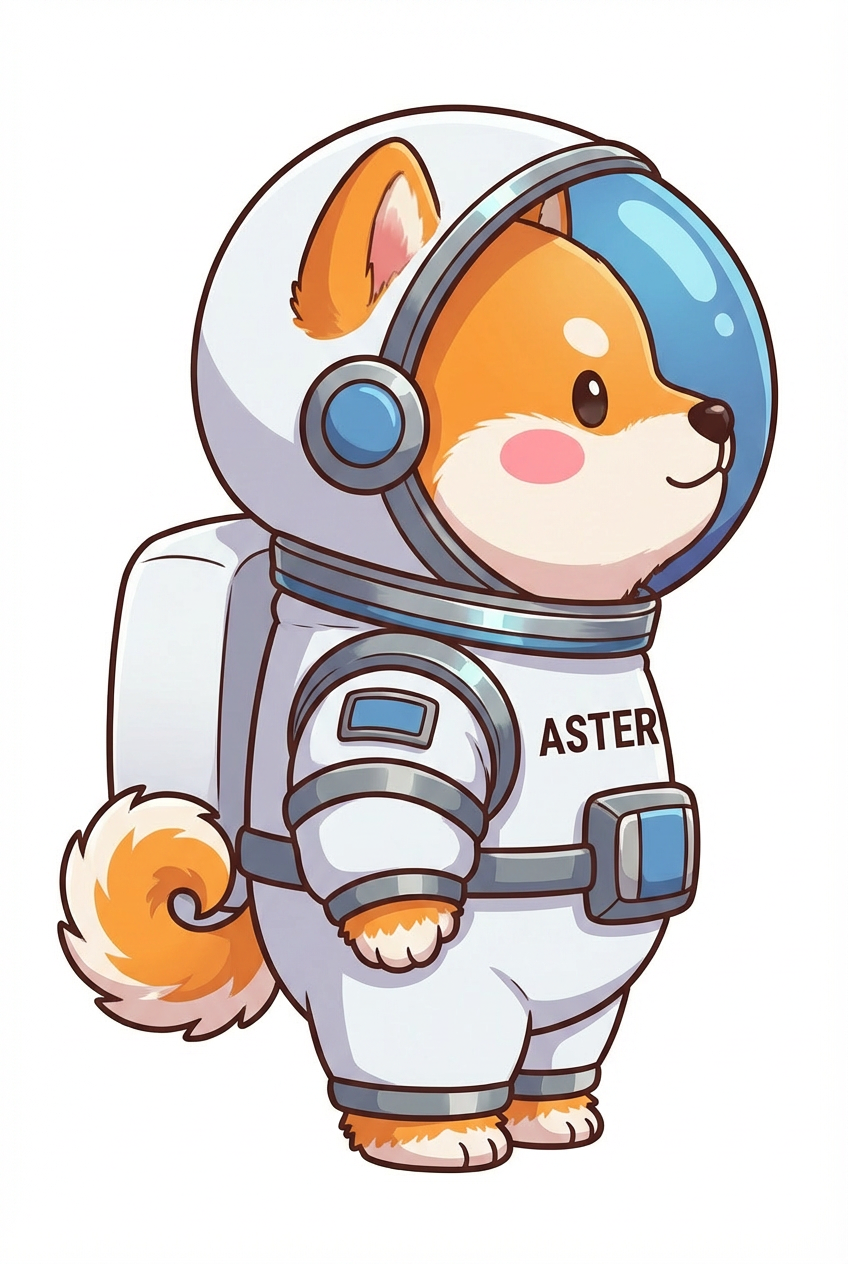
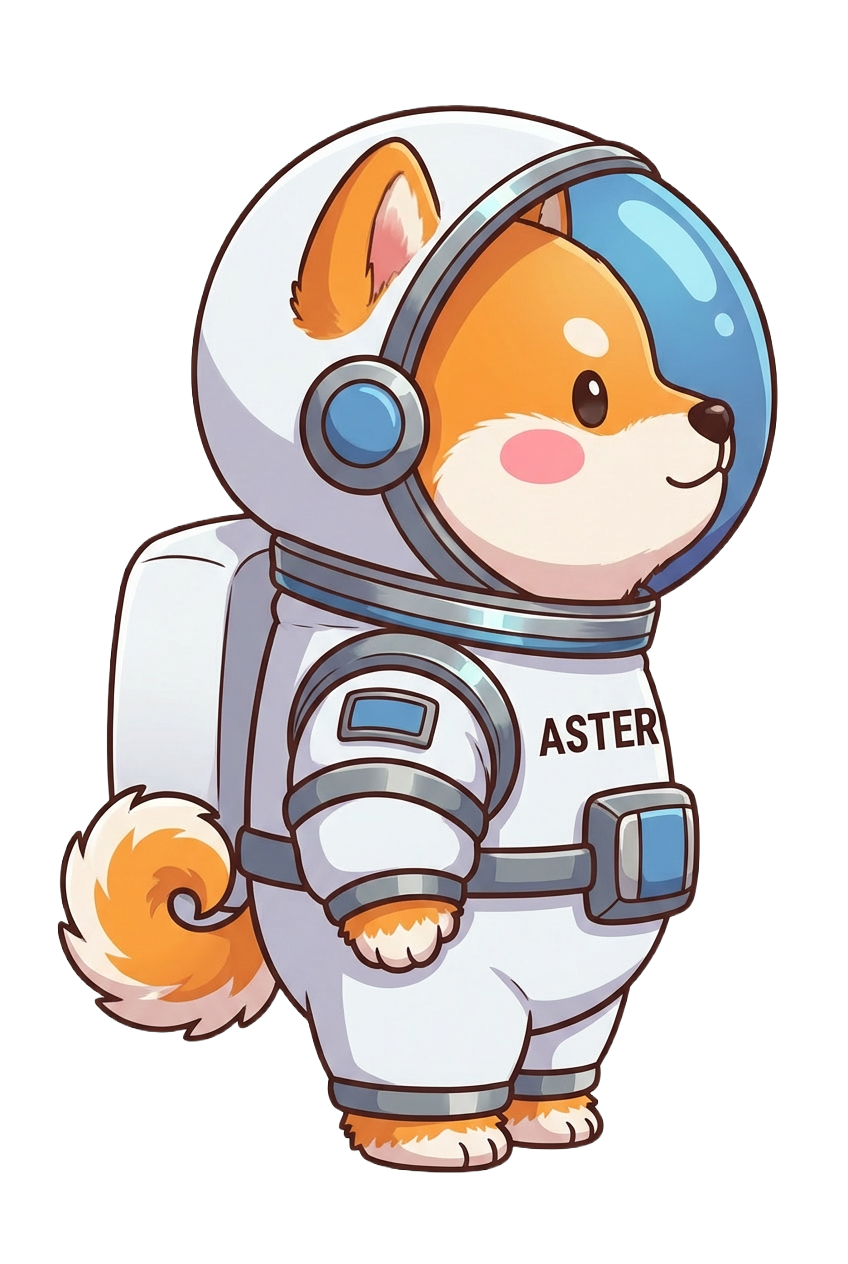
Use transparent PNGs for about section and character poses

diff --git a/index.html b/index.html
@@ -143,7 +143,7 @@
           <img
             src="public/images/social/004_In_a_charming_cartoon_style_a_small_dog_with_CMfUcmeL.png"
             alt="Baby Asteroid astronaut with big helmet"
-            class="w-64 sm:w-80 mx-auto mix-blend-lighten"
+            class="w-64 sm:w-80 mx-auto"
           />
         </div>
         <div class="flex-1">
